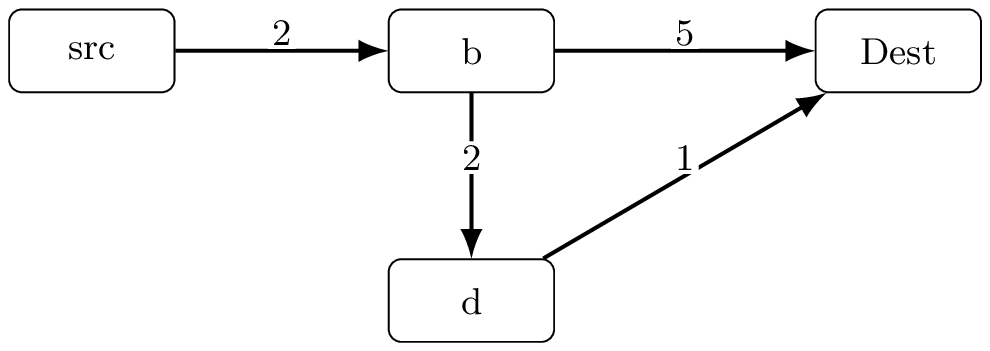
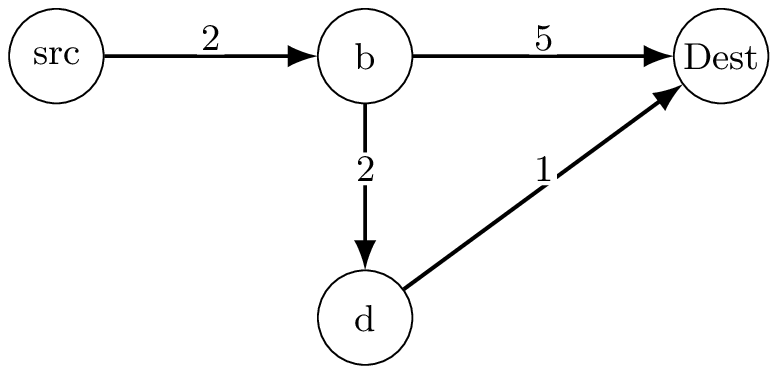
add bellman

diff --git a/assets/images/distributed systems/bellamn ford.tex b/assets/images/distributed systems/bellamn ford.tex
@@ -6,7 +6,7 @@
 \begin{document}
 \begin{tikzpicture}[
   >=Latex,
-  node/.style={draw, rounded corners=3pt, minimum width=14mm, minimum height=7mm, align=center, font=\small},
+  node/.style={draw, circle, minimum size=8mm, inner sep=0pt, align=center, font=\small},
   edge/.style={->, line width=0.9pt},
   w/.style={font=\small, fill=white, inner sep=1pt}
 ]
@@ -21,4 +21,3 @@
   \draw[edge] (d) -- node[w, midway, above] {1} (dest);
 \end{tikzpicture}
 \end{document}
-
